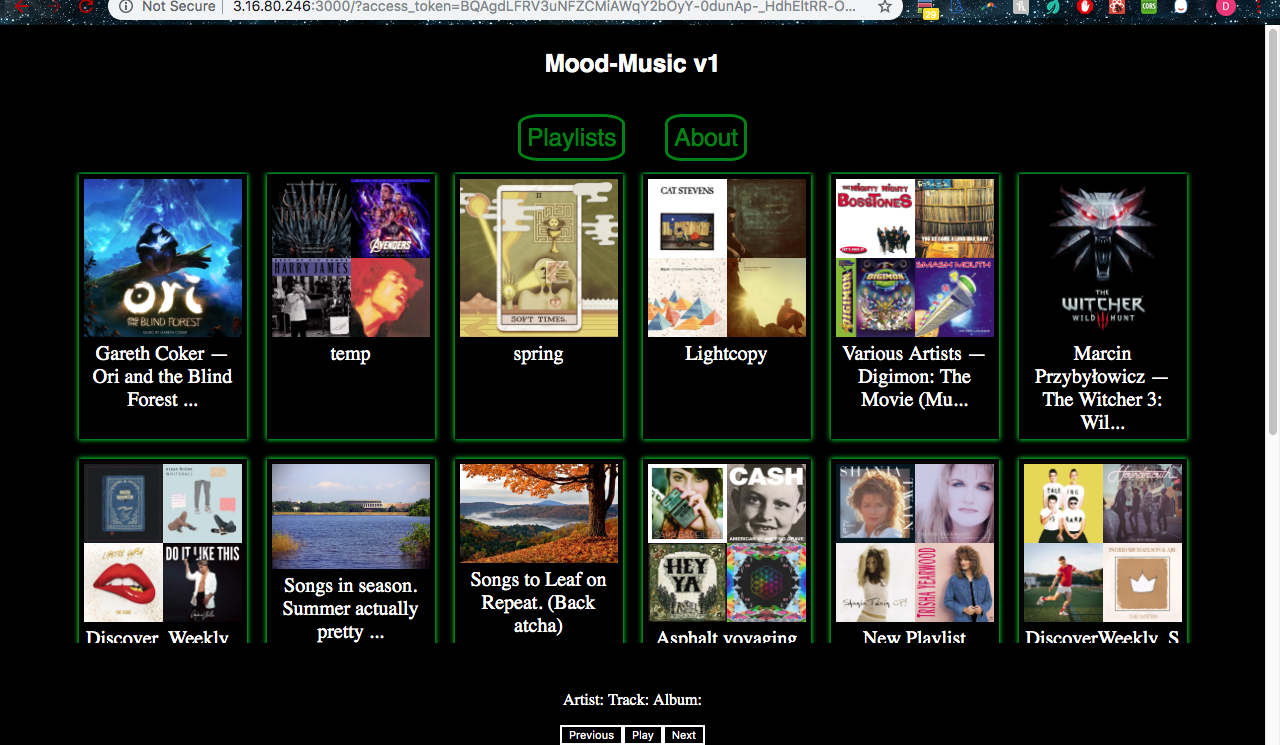
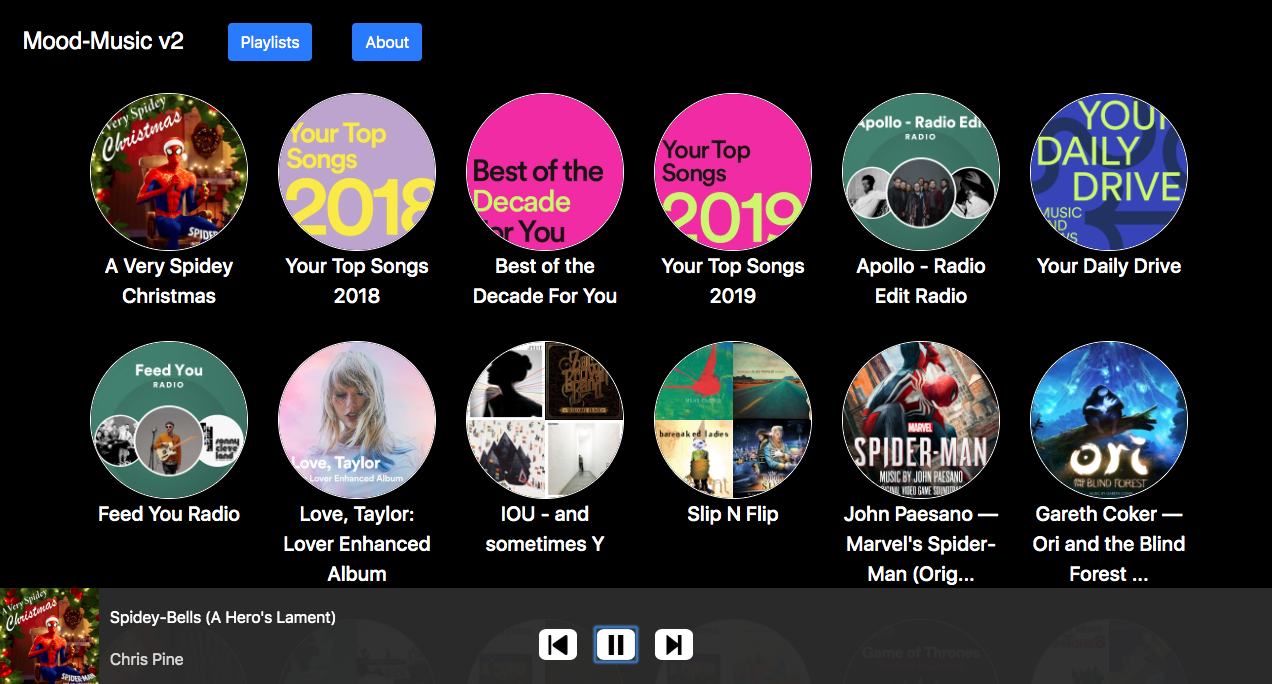
some ui changes and About route

diff --git a/src/components/FullPlaylist.js b/src/components/FullPlaylist.js
@@ -47,16 +47,18 @@ class FullPlaylist extends Component{
         }).then(response => response.json())
         .then( data => {
           this.setState({
-            tracks: data.items.map( item => {return {
-              name: item.track.name,
-              artist: item.track.artists,
-              id: item.track.id,
+            tracks: data.items.map( item => {
+              if(item.track){ return {
+              name: (item.track) ? item.track.name : "",
+              artist: (item.track) ? item.track.artists : [],
+              id: (item.track) ? item.track.id : ""
 
-           }}),
+           }} else {return null}}).filter(function( element ) {return (element !== undefined && element !== null);}),
             loadedPlaylistId: data.href.split('/')[5]
           })
         })
         .then(() => {
+          console.log(this.state.tracks);
           let tracks = this.state.tracks.map( track => track.id ).join(',');
           this.fetchFeatures(tracks)
         })
@@ -210,6 +212,24 @@ setSort11(){
   });
 }
 
+StartPlayback(id, type){
+  var bod = {
+    "context_uri": "spotify:playlist:" + this.props.id
+  }
+  if(type == "track") {
+    bod['offset'] = {"uri": "spotify:track:" + id}
+  }
+  const { accessToken } = this.state;
+  fetch("https://api.spotify.com/v1/me/player/play", {
+    method: "PUT",
+    headers: {
+      authorization: `Bearer ` + (accessToken || this.props.accessToken),
+      "Content-Type": "application/json",
+    },
+    body: JSON.stringify(bod),
+  });
+}
+
 
 
   render(){
@@ -240,6 +260,7 @@ setSort11(){
 
             return b[metric] - a[metric];
         }).map( track =>
+      (track != undefined) ? (
       <div className = "card" style={{margin: '2em', textAlign: 'left'}}>
         <div className = "card-header" style={{height: '48px'}}>
           <h5 className = "card-title trackName">{track.name}</h5>
@@ -259,11 +280,11 @@ setSort11(){
             <td><Loudness value = {track.loudness} /></td>
             <td><div style={wrapperStyle}>Tempo <br/>{track.tempo}</div></td>
 
-          <button  className = 'Track btn btn-primary' key = {track.id} > Play </button>
+          <button  onClick={() => this.StartPlayback(track.id, 'track')} className = 'Track btn btn-primary' key = {track.id} > Play </button>
 
 
         </div>
-      </div>)//.sort( //Sort it ...
+      </div>) : "")//.sort( //Sort it ...
       //  function(a,b) { // using a custom sort function that...
             // compares (the keys) by their respective values.
         //    return a - hash[b];
@@ -274,6 +295,7 @@ setSort11(){
       <div className = "FullPlaylist">
         <div className = "Playlist-container">
           { this.props.name ? <Playlist image = { this.props.image } name = {this.props.name}/> : null }
+          <button  onClick={() => this.StartPlayback(this.props.id, 'playlist')} className = 'PlaylistPlay btn btn-primary' key = {this.props.id} > Play </button>
         </div>
         <div className = "Features">
           <FeaturesNominal>

diff --git a/src/App.js b/src/App.js
@@ -6,6 +6,7 @@ import queryString from 'query-string';
 import './App.css';
 import Playlists from './components/Playlists';
 import FullPlaylist from './components/FullPlaylist';
+import About from './components/About';
 import * as actionTypes from './store/actions';
 
 
@@ -137,7 +138,7 @@ transferPlaybackHere() {
     },
     body: JSON.stringify({
       "device_ids": [ deviceId ],
-      "play": true,
+
     }),
   });
 }
@@ -192,14 +193,15 @@ transferPlaybackHere() {
 
 
           <Switch>
-            { this.props.accessToken && <Route  path="/" component={ Playlists }/> }
+            <Route exact path="/about" component={ About }/>
+            { (this.props.accessToken && window.location.href.indexOf('about') < 0) ? <Route   path="/" component={ Playlists }/> : null }
 
           </Switch>
 
 
           { this.state.playerLaunched != null ? <div className="ControlBar" style={{textAlign: 'left'}}>
             <div style={{display: 'inline-block'}} id="currentlyPlaying">
-              <img style={{height: '100px', width: '100px', display: 'inline-block', }} src={this.state.albumCover} />
+              {(this.state.albumCover) ? <img style={{height: '100px', width: '100px', display: 'inline-block', }} src={this.state.albumCover} /> : "" }
               <div style={{display: 'inline-block', verticalAlign: 'bottom', marginLeft: '10px', overflow: 'hidden', maxWidth: '300px'}} >
                 <table>
                   <tr className={(this.state.trackName != null && this.state.trackName.length > 30) ? "tech-slideshow" : ""}>
@@ -217,7 +219,7 @@ transferPlaybackHere() {
 
               </div>
             </div>
-            <p style={{display: 'inline-block'}}>
+            <p style={{display: 'inline-block', position: 'absolute', right: '45%', bottom: '2px'}}>
             <button style={ controlButton } onClick={() => this.onPrevClick()} ><img style={ controlImage } src= { "images/previous.png" } /></button>
             <button style={ controlButton } onClick={() => this.onPlayClick()} >{this.state.playing ? <img style={ controlImage } src= { "images/pause.png" } /> : <img style={ controlImage } src= { "images/play.png" } />}</button>
             <button style={ controlButton } onClick={() => this.onNextClick()} ><img style={ controlImage } src= { "images/next.png" } /></button>

diff --git a/src/components/About.js b/src/components/About.js
@@ -1,0 +1,18 @@
+import React, { Component } from 'react';
+import styled from 'styled-components';
+
+
+class About extends Component{
+  render(){
+    return(
+      <div style={{height: '500px', padding: '5em'}}>
+        <h5> Welcome to Mood-Music, </h5>
+        <h6> An app to help you precisely pick music to fit your mood</h6>
+        <p style={{textAlign: 'left'}}> This app displays interesting metadata about tracks and playlists to help users pick music to fit a
+        certain mood. Soon this app will also let you craft playlists based on specific characteristics</p>
+      </div>
+    )
+  }
+}
+
+export default About

diff --git a/src/components/Loudness.js b/src/components/Loudness.js
@@ -6,10 +6,10 @@ class Loudness extends Component{
   render(){
     let loudness = null;
 
-    if(this.props.value < -40){
+    if(this.props.value < -10){
       loudness = "Quiet"
     }
-    else if(this.props.value < -20){
+    else if(this.props.value < -7){
       loudness = "Moderate"
     }
     else {

diff --git a/src/App.css b/src/App.css
@@ -58,8 +58,8 @@ button {
   position: sticky;
   z-index: 100;
   bottom: 0;
-  background-color: #000000;
-  padding-top: 2em;
+  background-color: #2b2b2bf7;
+
 }
 
 .App ul{
